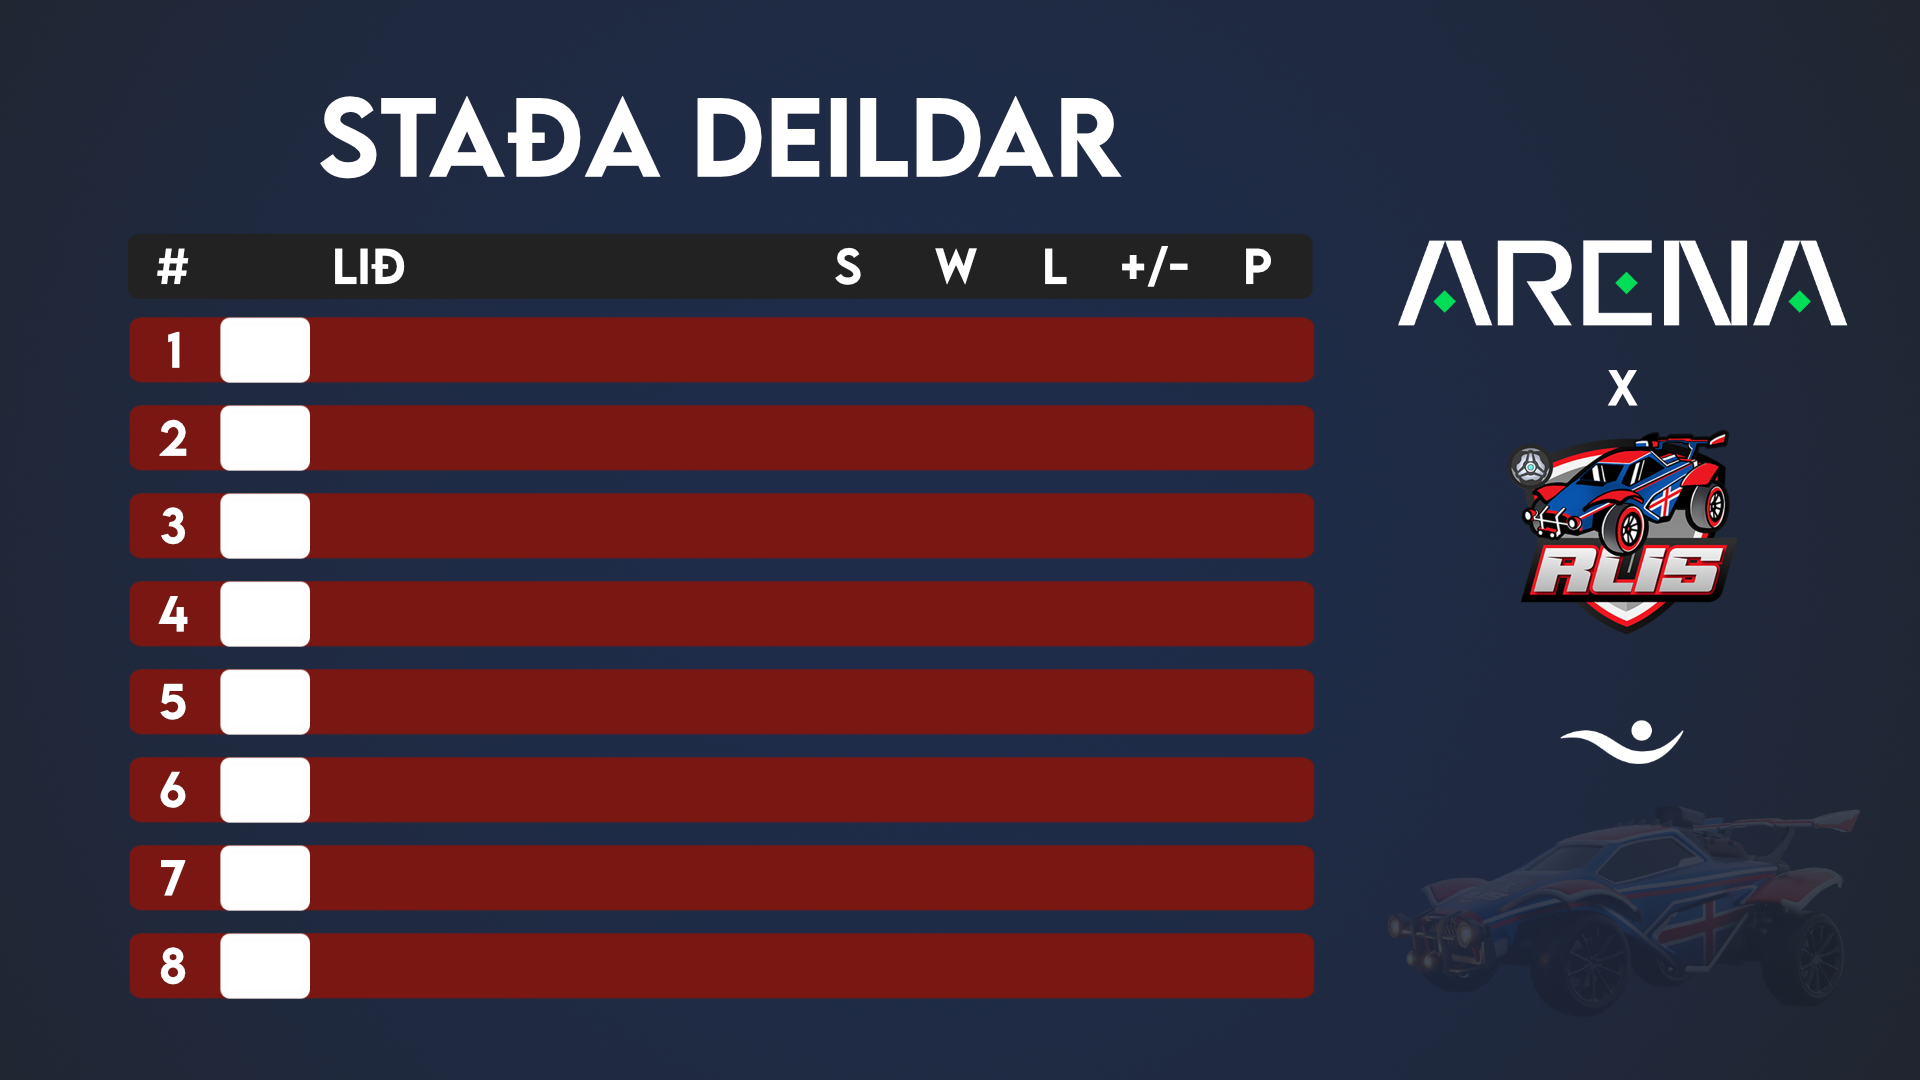
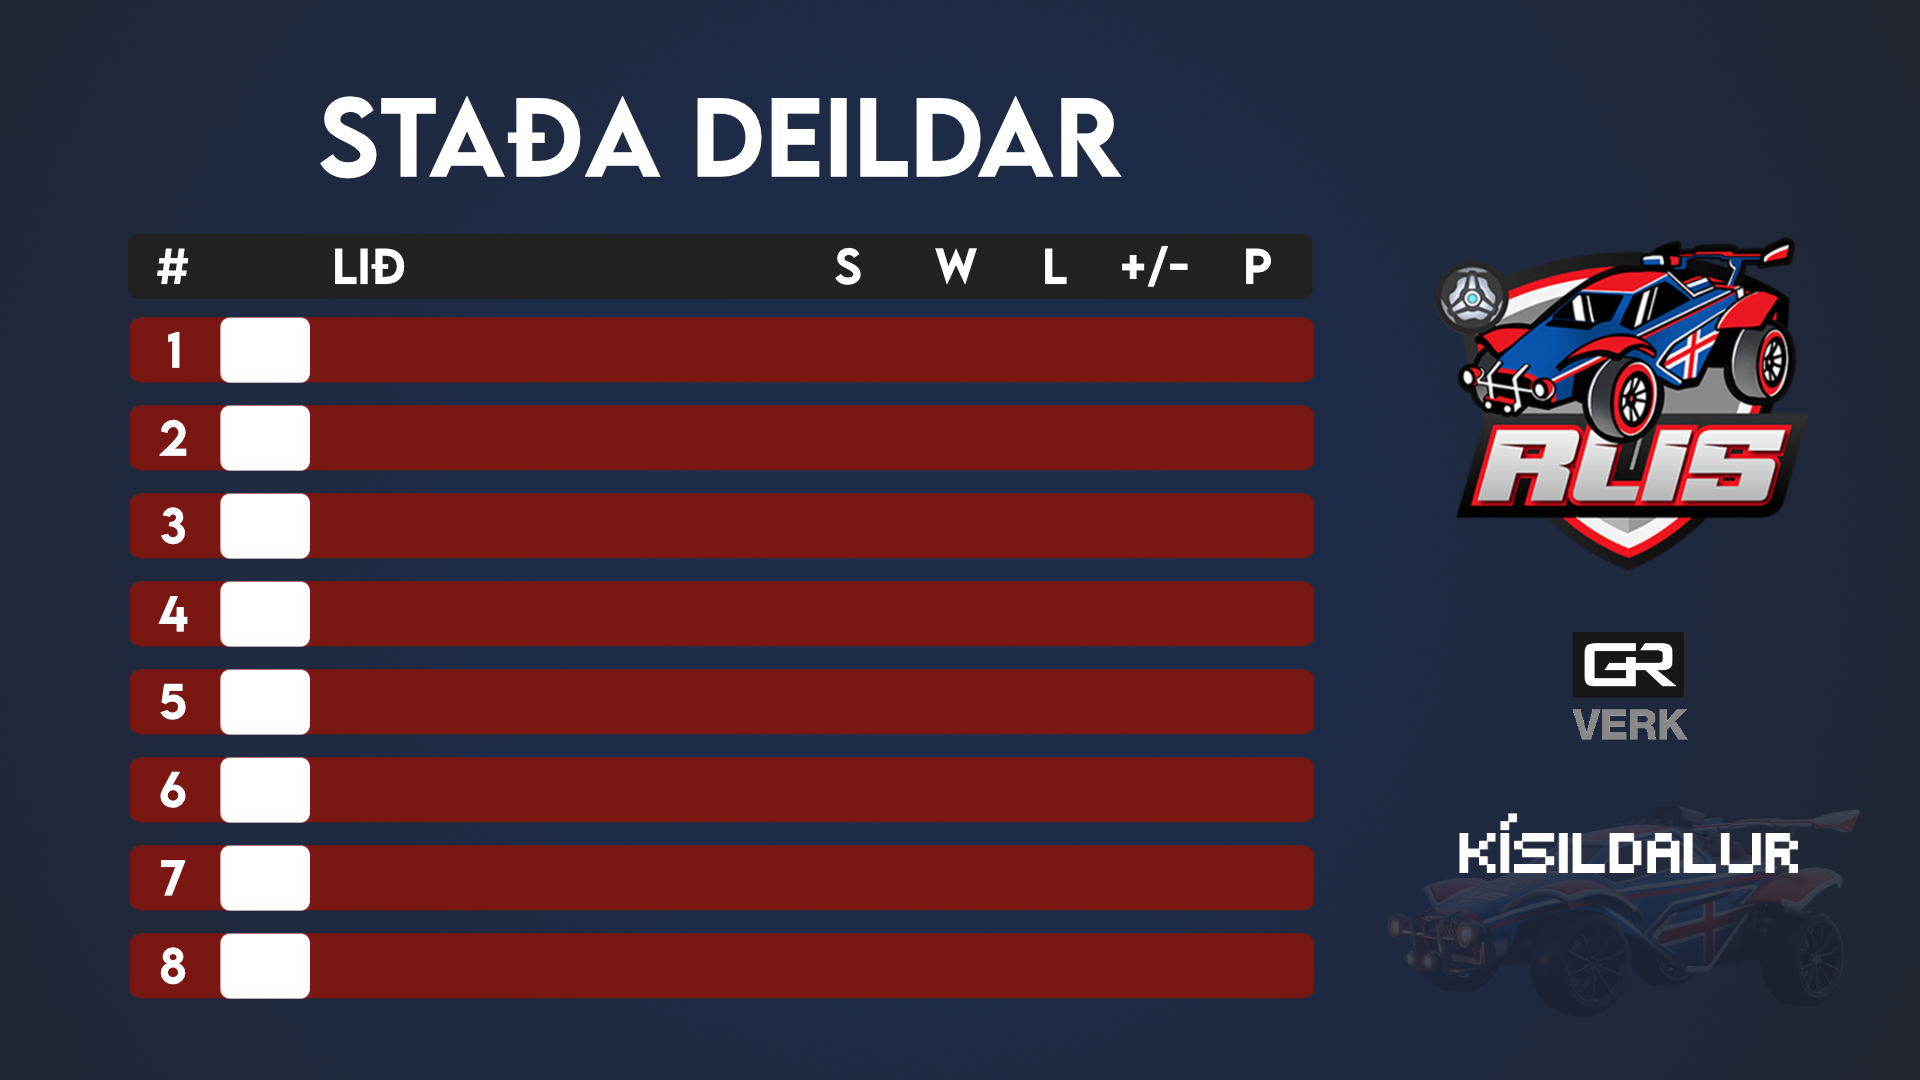
WIP changes to current standing

Changed region(s): [[0.7188, 0.2139, 0.9688, 0.7028], [0.75, 0.7639, 0.9375, 0.825]]

diff --git a/commands/legueStatusCommand.js b/commands/legueStatusCommand.js
@@ -1,7 +1,8 @@
 const { SlashCommandBuilder } = require('@discordjs/builders');
 const { MessageEmbed } = require('discord.js');
 const axios = require("axios");
-const nodeHtmlToImage = require('node-html-to-image')
+const nodeHtmlToImage = require('node-html-to-image');
+// const font2base64 = require('node-font2base64');
 const cheerio = require("cheerio");
 
 commandName = 'staðan';
@@ -15,7 +16,7 @@ module.exports = {
 
     try {
       console.log('fetching data...')
-      const { data } = await axios.get('https://play.toornament.com/en_GB/tournaments/6005815484662964224/stages/6019944245391966208/groups/6044355496923930624/');
+      const { data } = await axios.get('https://play.toornament.com/en_GB/tournaments/6441392792945721344/stages/6472425512940109824/groups/6482478112381247488/');
       // Load HTML we fetched in the previous line
       console.log('data fetched.')
 
@@ -48,25 +49,30 @@ module.exports = {
 
       console.log('adding images to data in array')
       for (i = 0; i < toornamentStandingsArray.length; i++) {
-        if (toornamentStandingsArray[i].name === 'LAVA esports')
+        if (toornamentStandingsArray[i].name === 'LAVA Esports')
           toornamentStandingsArray[i].logo = 'https://i.ibb.co/5TY3FL5/Lava-logo-transparent.png'
-        else if (toornamentStandingsArray[i].name === 'KR')
-          toornamentStandingsArray[i].logo = 'https://i.ibb.co/DKQdDGM/KR-png.png'
-        else if (toornamentStandingsArray[i].name === 'Þór Akureyri')
+        else if (toornamentStandingsArray[i].name === 'Breiðablik')
+          toornamentStandingsArray[i].logo = 'https://i.ibb.co/2vQsNcS/breidablik.png'
+        else if (toornamentStandingsArray[i].name === 'Þór')
           toornamentStandingsArray[i].logo = 'https://i.ibb.co/0BgDcTy/thor-akureyri-vector-logo.png'
-        else if (toornamentStandingsArray[i].name === 'Rafík')
-          toornamentStandingsArray[i].logo = 'https://i.ibb.co/1mhQ1fs/RAFIK-logo-resized.png'
-        else if (toornamentStandingsArray[i].name === 'Midnight Bulls')
-          toornamentStandingsArray[i].logo = 'https://i.ibb.co/f4Nz5Hf/MB-resized.png'
-        else if (toornamentStandingsArray[i].name === 'Somnio')
+        else if (toornamentStandingsArray[i].name === 'Suðurtak')
+          toornamentStandingsArray[i].logo = 'https://i.ibb.co/fHnwQCK/Su-urtak.png'
+        else if (toornamentStandingsArray[i].name === 'Víkingur Ólafsvík')
+          toornamentStandingsArray[i].logo = 'https://i.ibb.co/4m4zpr8/V.png'
+        else if (toornamentStandingsArray[i].name === 'Pushin P')
           toornamentStandingsArray[i].logo = 'https://i.ibb.co/KbcVZ5s/Somnio-logo-new-resized.png'
         else if (toornamentStandingsArray[i].name === 'Breaking Sad')
           toornamentStandingsArray[i].logo = 'https://i.ibb.co/dbPGgSB/Breaking-Sad.png'
-        else if (toornamentStandingsArray[i].name === '354 eSports')
+        else if (toornamentStandingsArray[i].name === '354 Esports')
           toornamentStandingsArray[i].logo = 'https://i.ibb.co/c3hGKpH/354e-Sports.png'
       }
       console.log('images added to data.')
       console.log('creating html...')
+
+
+
+      // const _data = font2base64.encodeToDataUrlSync('../my/awesome/font.ttf')
+
       let _htmlTemplate = `<!DOCTYPE html>
       <html lang="en">
       
@@ -79,7 +85,10 @@ module.exports = {
         <link href="https://fonts.googleapis.com/css2?family=Montserrat:wght@600&display=swap" rel="stylesheet">
         <style>
           
-          @import url('http://fonts.cdnfonts.com/css/lemonmilk');
+          @font-face {
+            font-family: 'Lemonmilk';
+            src: url(https://drive.google.com/file/d/1gXJZp4caID-pm-YfaityFjOYLcxGi0fx/view?usp=share_link) format('opentype');
+          }
 
           body {
             width: 1920px;
@@ -87,11 +96,11 @@ module.exports = {
           }
       
           .background {
-            background-image: url(https://i.ibb.co/PmZQzHw/Current-Standings.png);
+            background-image: url(https://i.ibb.co/nzbK64Z/current-Standing.png);
             background-repeat: no-repeat;
             height: 100vh;
       
-            font-family: "Lemon/Milk", arial;
+            font-family: "Lemonmilk", arial;
             font-size: 45px;
             color: white;
             padding-top: 320px;

diff --git a/commands/rostercommands.js b/commands/rostercommands.js
@@ -87,7 +87,7 @@ const pepsicola = { name: 'pepsicola.coca', value: `[Tracker](https://rocketleag
 const drbamboo = { name: 'Dr Bamboo', value: `[Tracker](https://rocketleague.tracker.network/rocket-league/profile/steam/DrBamboo/overview)` };
 const eagle = { name: 'Eagle', value: `[Tracker](https://rocketleague.tracker.network/rocket-league/profile/steam/TheEaglesStream/overview)` };
 const joibje = { name: 'joibje ', value: `[Tracker](https://rocketleague.tracker.network/rocket-league/profile/epic/joibje/overview)` };
-const roadman = { name: 'RoadmanGK3', value: `[Tracker](https://rocketleague.tracker.network/rocket-league/profile/psn/RoadmanGK3/overview)` };
+const roadman = { name: 'Roadmane', value: `[Tracker](https://rocketleague.tracker.network/rocket-league/profile/psn/RoadmanGK3/overview)` };
 const aronrafn = { name: 'Aronrafn', value: `[Tracker](https://rocketleague.tracker.network/rocket-league/profile/steam/Aronrafn/overview)` };
 const moonmamba = { name: 'MoonMamba', value: `[Tracker](https://rocketleague.tracker.network/rocket-league/profile/steam/MoonMamba/overview)` };
 const krilli = { name: 'Krilli ', value: `[Tracker](https://rocketleague.tracker.network/rocket-league/profile/steam/pabbi4/overview)` };

diff --git a/README.md b/README.md
@@ -7,3 +7,12 @@ To run the bot, you must create `config.json` that includes
     "prefix" : "!"
 }
 ```
+
+```
+docker build . -t dingofox/rlis-discord-bot
+docker push dingofox/rlis-discord-bot
+```
+
+```
+node .\deploy-commands.js
+```
